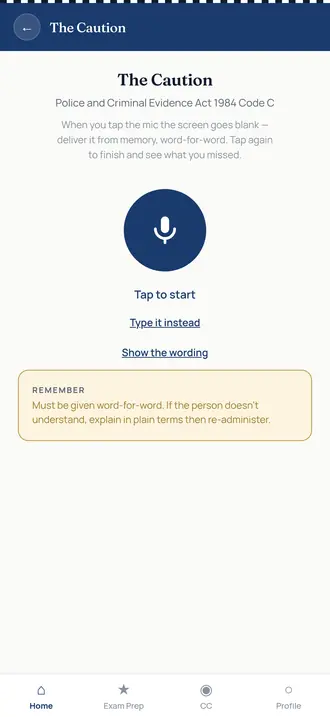
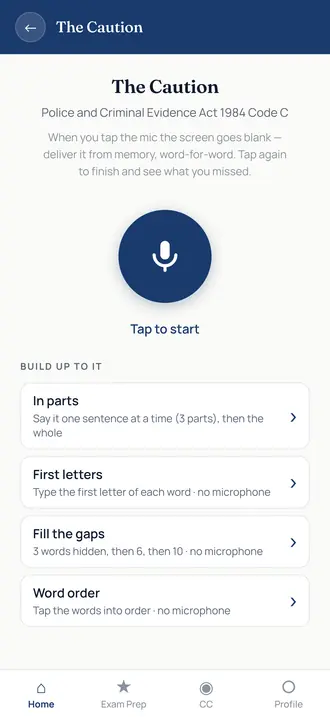
New phone screenshots without the checked strip; shorter taster notes; Try 5 questions button in the hero
Claude-Session: https://claude.ai/code/session_01AXKDeAdiW2WiQPDpskYZeg

diff --git a/index.html b/index.html
@@ -47,6 +47,7 @@
 <div>
 <p class="eyebrow">AP1 to AP4 · England and Wales</p>
 <h1>Revise for the constable assessments <span class="mark">without the folder</span>.</h1>
+<p class="hero-try demo-link" hidden><a class="try-btn" href="#demo">Try 5 questions now</a></p>
 <p class="lede">Prep a Constable is a revision app for the Police Constable Entry Programme and Detective Constable Entry Programme assessments. 885 questions that each explain the answer, timed mocks, and the caution to say out loud until you stop tripping over it.</p>
 <p class="price-line"><b>£6.99</b> <span>one-off, including any applicable VAT. No subscription and nothing renews.</span></p>
 <ul class="stores"><li><div class="store"><picture><source media="(prefers-color-scheme: dark)" srcset="assets/badges/app-store-white.svg"><img class="badge-apple" src="assets/badges/app-store.svg" alt="Download on the App Store" width="120" height="40"></picture></div><p class="soon">Coming soon</p></li><li><div class="store"><img class="badge-play" src="assets/badges/google-play.png" alt="Get it on Google Play" width="165" height="64"></div><p class="soon">Coming soon</p></li></ul>
@@ -62,8 +63,8 @@
 <p>Sit a five-question taster from the AP1 mock, in the real app, running in your browser. You get your result and the explanation for every answer at the end.</p>
 <ul class="demo-notes">
 <li>Nothing you do here is saved or sent anywhere.</li>
-<li>The microphone is off in this demo. The spoken drills need the app on your phone.</li>
-<li>It is the web version of the app, so fonts and spacing can differ slightly from the phone. The full app has all four assessment points, flashcards, spoken drills and the legislation companion.</li>
+<li>Five questions from AP1. The app has all four assessment points.</li>
+<li>This is the web version, so it can look slightly different on your phone.</li>
 </ul>
 <p class="demo-fail" hidden>The taster has not loaded in this browser. <a href="demo/" target="_blank" rel="noopener">Open it on its own page</a>.</p>
 </div>
@@ -120,7 +121,7 @@
 <p>Three drills: the caution, GOWISELY for a stop and search, and the ESD arrest wording after a failed roadside breath test. The screen goes blank while you speak, so you can't read it off. Afterwards it shows what you missed.</p>
 <p>Somewhere you can't talk? Type it instead.</p>
 </div>
-<figure class="device"><img src="assets/screens/caution-330.webp" srcset="assets/screens/caution-330.webp 330w, assets/screens/caution-660.webp 660w" sizes="(min-width: 760px) 300px, 270px" alt="The Caution verbal drill before recording. The screen goes blank while you speak. Type it instead and Show the wording are both there." width="330" height="717" loading="lazy" decoding="async"></figure>
+<figure class="device"><img src="assets/screens/caution-330.webp" srcset="assets/screens/caution-330.webp 330w, assets/screens/caution-660.webp 660w" sizes="(min-width: 760px) 300px, 270px" alt="The Caution verbal drill before recording: the microphone button, and four ways to build up to it: in parts, first letters, fill the gaps and word order." width="330" height="717" loading="lazy" decoding="async"></figure>
 </article>
 
 <article class="use">
@@ -219,5 +220,5 @@
 </div></footer>
 <script type="application/ld+json">{"@context":"https://schema.org","@type":"SoftwareApplication","name":"Prep a Constable","applicationCategory":"EducationalApplication","operatingSystem":"iOS, Android","description":"Independent revision for England and Wales constable assessments: questions, mocks, flashcards, spoken drills and a legislation companion.","publisher":{"@type":"Organization","name":"Arim Capital Ltd","url":"https://prepaconstable.co.uk","email":"support@prepaconstable.co.uk"},"offers":{"@type":"Offer","price":"6.99","priceCurrency":"GBP"}}</script>
 <script>(function(){var b=document.querySelector(".menu-btn"),n=document.getElementById("site-nav");if(!b||!n)return;function set(o){n.classList.toggle("open",o);b.setAttribute("aria-expanded",o?"true":"false")}b.addEventListener("click",function(){set(!n.classList.contains("open"))});n.addEventListener("click",function(e){if(e.target.closest("a"))set(false)});document.addEventListener("keydown",function(e){if(e.key==="Escape")set(false)})})();</script>
-<script>(function(){var sec=document.getElementById("demo");if(!sec)return;sec.hidden=false;var l=document.querySelector(".demo-link");if(l)l.hidden=false;var fail=sec.querySelector(".demo-fail");var dev=document.getElementById("demo-device"),scr=document.getElementById("demo-screen"),start=sec.querySelector(".demo-start"),W=390,H=800,fr=null;function fit(){var w=scr.clientWidth,k=w/W;scr.style.height=(H*k)+"px";if(fr){fr.height=H;fr.style.transform="scale("+k+")"}}function launch(){if(fr)fr.remove();H=800;fr=document.createElement("iframe");fr.src="demo/";fr.title="Prep a Constable interactive demo";fr.width=W;fr.height=H;fr.setAttribute("sandbox","allow-scripts allow-same-origin allow-popups allow-popups-to-escape-sandbox");fr.setAttribute("referrerpolicy","no-referrer");fr.setAttribute("loading","eager");fr.setAttribute("scrolling","no");scr.appendChild(fr);if(start)start.hidden=true;fit();fr.focus();var mine=fr;setTimeout(function(){if(mine!==fr)return;var ok=false;try{var d=mine.contentDocument;ok=!!(d&&d.body&&d.body.innerText&&d.body.innerText.length>20)}catch(e){ok=true}if(!ok&&fail)fail.hidden=false},9000)}start.addEventListener("click",launch);window.addEventListener("resize",fit);window.addEventListener("message",function(e){if(fr&&e.source===fr.contentWindow&&e.data&&e.data.type==="pc-demo-height"&&e.data.height>0){var nh=Math.max(560,Math.min(20000,Math.round(e.data.height)));if(nh>H||nh<H*0.6){H=nh<H?Math.max(800,nh):nh;fit()}return}if(fr&&e.source===fr.contentWindow&&e.data&&e.data.type==="pc-demo-get-app"){var d=document.getElementById("download");if(d){d.scrollIntoView({behavior:"smooth",block:"start"});d.setAttribute("tabindex","-1");d.focus({preventScroll:true})}}});fit()})();</script>
+<script>(function(){var sec=document.getElementById("demo");if(!sec)return;sec.hidden=false;var ls=document.querySelectorAll(".demo-link");for(var li=0;li<ls.length;li++)ls[li].hidden=false;var fail=sec.querySelector(".demo-fail");var dev=document.getElementById("demo-device"),scr=document.getElementById("demo-screen"),start=sec.querySelector(".demo-start"),W=390,H=800,fr=null;function fit(){var w=scr.clientWidth,k=w/W;scr.style.height=(H*k)+"px";if(fr){fr.height=H;fr.style.transform="scale("+k+")"}}function launch(){if(fr)fr.remove();H=800;fr=document.createElement("iframe");fr.src="demo/";fr.title="Prep a Constable interactive demo";fr.width=W;fr.height=H;fr.setAttribute("sandbox","allow-scripts allow-same-origin allow-popups allow-popups-to-escape-sandbox");fr.setAttribute("referrerpolicy","no-referrer");fr.setAttribute("loading","eager");fr.setAttribute("scrolling","no");scr.appendChild(fr);if(start)start.hidden=true;fit();fr.focus();var mine=fr;setTimeout(function(){if(mine!==fr)return;var ok=false;try{var d=mine.contentDocument;ok=!!(d&&d.body&&d.body.innerText&&d.body.innerText.length>20)}catch(e){ok=true}if(!ok&&fail)fail.hidden=false},9000)}start.addEventListener("click",launch);window.addEventListener("resize",fit);window.addEventListener("message",function(e){if(fr&&e.source===fr.contentWindow&&e.data&&e.data.type==="pc-demo-height"&&e.data.height>0){var nh=Math.max(560,Math.min(20000,Math.round(e.data.height)));if(nh>H||nh<H*0.6){H=nh<H?Math.max(800,nh):nh;fit()}return}if(fr&&e.source===fr.contentWindow&&e.data&&e.data.type==="pc-demo-get-app"){var d=document.getElementById("download");if(d){d.scrollIntoView({behavior:"smooth",block:"start"});d.setAttribute("tabindex","-1");d.focus({preventScroll:true})}}});fit()})();</script>
 </body></html>

diff --git a/assets/site.css b/assets/site.css
@@ -422,3 +422,4 @@ main [id] { scroll-margin-top: calc(var(--header-h) + env(safe-area-inset-top) +
 .demo-start:focus-visible{outline:3px solid #14284b;outline-offset:-3px}.demo-again:focus-visible{outline:3px solid currentColor;outline-offset:3px}
 @media (min-width:900px){.demo-grid{grid-template-columns:minmax(0,1fr) minmax(0,.8fr);gap:56px}.demo-device{justify-self:end}}
 .demo-fail[hidden]{display:none!important}.demo-fail{margin-top:14px;font-weight:600}.demo-own{margin-top:12px;font-size:.9375rem}
+.hero-try{margin:0 0 22px}.try-btn{display:inline-flex;align-items:center;min-height:48px;padding:0 24px;border-radius:999px;background:#14284b;color:#fff;font-weight:700;text-decoration:none}.try-btn:hover{background:#0e1b33}.try-btn:focus-visible{outline:3px solid currentColor;outline-offset:3px}@media (prefers-color-scheme:dark){.try-btn{background:var(--mark);color:#14181f}.try-btn:hover{filter:brightness(.92)}}
